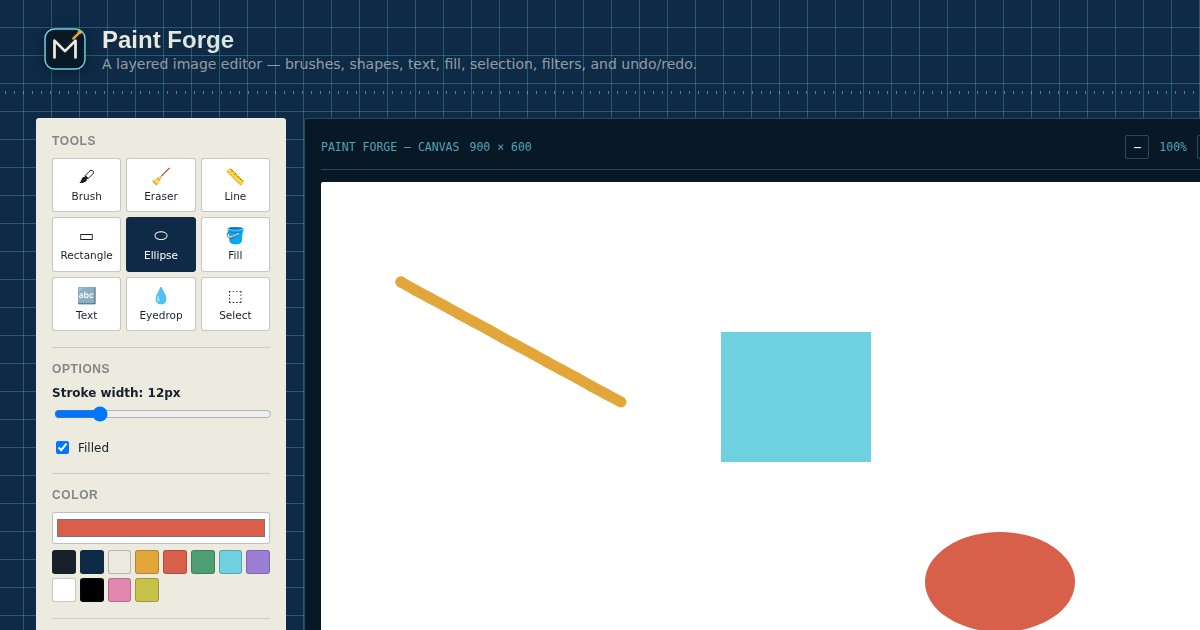
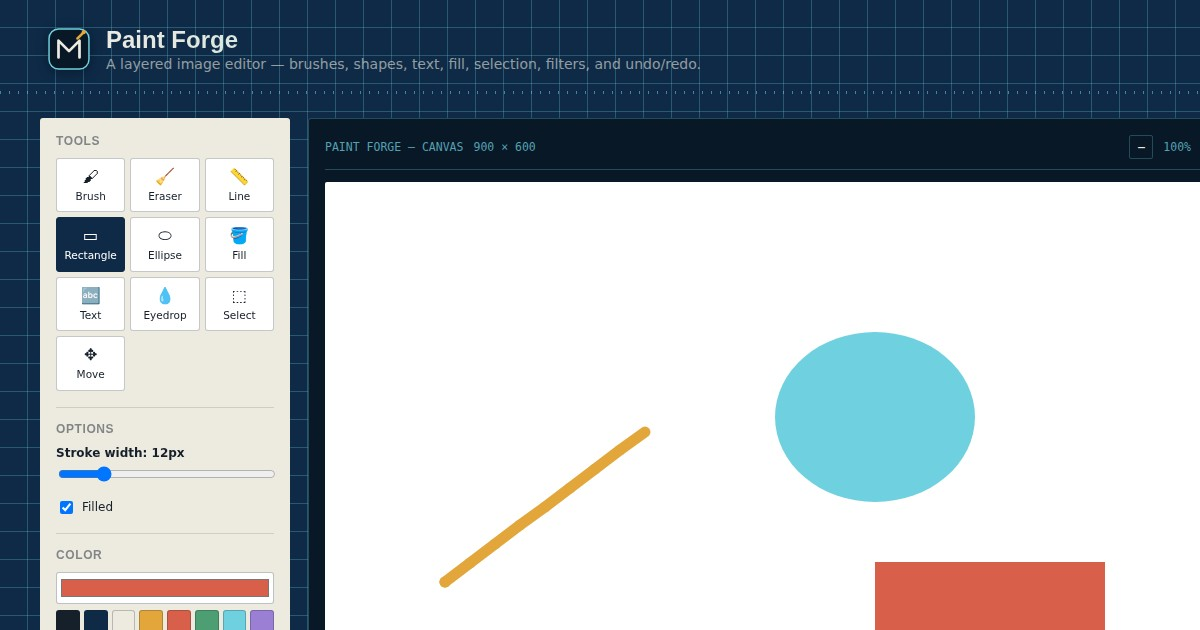
Add a Move tool, keyboard shortcuts, and flip/rotate to Paint Forge
Paint Forge had no way to reposition a layer's content once drawn or
imported (only whole-canvas resize existed), every action required a mouse
click on a small panel button, and there was no flip or rotate anywhere in
a layered editor where both are expected basics.

- Added a Move tool: drag on the canvas to reposition the active layer's
  pixels, snapshotting the layer before the drag so it composes cleanly
  with undo.
- Added keyboard shortcuts: Ctrl+Z / Ctrl+Shift+Z (or Ctrl+Y) for undo/redo,
  [ and ] to shrink/grow the brush size (Shift for bigger steps), and
  Delete/Backspace to clear the current selection when the Select tool has
  an active selection (Backspace is also preventDefault'd generally to stop
  accidental browser back-navigation while using the tool).
- Added a "Transform (active layer)" section with Flip H, Flip V, Rotate
  CW, and Rotate CCW, operating in place on the active layer's pixels
  within the existing canvas frame.

Tested with Playwright by drawing a positioned rectangle and reading actual
pixel data back off the canvas (not just checking that a function ran):
confirmed the Move tool relocates pixels to the exact dragged offset,
confirmed Ctrl+Z reverts the move and Ctrl+Shift+Z reapplies it, confirmed
Flip H mirrors the shape to the exact expected mirrored coordinates,
confirmed ] and [ change the displayed brush size by the right amount, and
confirmed Delete clears an active selection to transparent. Zero console
[…]

diff --git a/paint-forge.html b/paint-forge.html
@@ -227,6 +227,17 @@
       <button type="button" class="draft-btn secondary" id="deleteLayerBtn">✕ Delete</button>
     </div>
 
+    <div class="section-title">Transform (active layer)</div>
+    <div class="btn-row" style="margin-bottom:6px;">
+      <button type="button" class="draft-btn secondary" id="flipHBtn">⇋ Flip H</button>
+      <button type="button" class="draft-btn secondary" id="flipVBtn">⇵ Flip V</button>
+    </div>
+    <div class="btn-row">
+      <button type="button" class="draft-btn secondary" id="rotateCcwBtn">↺ Rotate CCW</button>
+      <button type="button" class="draft-btn secondary" id="rotateCwBtn">↻ Rotate CW</button>
+    </div>
+    <p class="field hint">Affects the active layer's pixels in place — content that no longer fits the frame is cropped.</p>
+
     <div class="section-title">Adjustments (active layer)</div>
     <div class="field">
       <label>Brightness <span id="brightnessVal">0</span></label>
@@ -450,7 +461,8 @@
     { id: 'fill', label: 'Fill', icon: '🪣' },
     { id: 'text', label: 'Text', icon: '🔤' },
     { id: 'eyedropper', label: 'Eyedrop', icon: '💧' },
-    { id: 'select', label: 'Select', icon: '⬚' }
+    { id: 'select', label: 'Select', icon: '⬚' },
+    { id: 'move', label: 'Move', icon: '✥' }
   ];
   const toolGrid = document.getElementById('toolGrid');
   TOOLS.forEach(t => {
@@ -530,6 +542,11 @@
       hint.className = 'hint';
       hint.textContent = 'Click anywhere on the canvas to pick that color.';
       toolOptionsEl.appendChild(hint);
+    } else if (currentTool === 'move') {
+      const hint = document.createElement('p');
+      hint.className = 'hint';
+      hint.textContent = 'Drag on the canvas to reposition the active layer\'s pixels.';
+      toolOptionsEl.appendChild(hint);
     } else if (currentTool === 'select') {
       const hint = document.createElement('p');
       hint.className = 'hint';
@@ -576,6 +593,7 @@
   let isDrawing = false;
   let lastPoint = null;
   let dragStart = null;
+  let moveSnapshot = null;
 
   function softBrushStamp(ctx, x, y, size, color, opacity, hardness) {
     const r = size / 2;
@@ -645,6 +663,15 @@
       overlayDraw = null;
       return;
     }
+    if (currentTool === 'move') {
+      pushHistory();
+      isDrawing = true;
+      dragStart = pos;
+      moveSnapshot = document.createElement('canvas');
+      moveSnapshot.width = canvasWidth; moveSnapshot.height = canvasHeight;
+      moveSnapshot.getContext('2d').drawImage(layer.canvas, 0, 0);
+      return;
+    }
 
     // brush / eraser / line / rect / ellipse
     pushHistory();
@@ -694,6 +721,11 @@
       const x = Math.min(dragStart.x, pos.x), y = Math.min(dragStart.y, pos.y), w = Math.abs(pos.x - dragStart.x), h = Math.abs(pos.y - dragStart.y);
       selection = { x, y, w, h };
       renderComposite();
+    } else if (currentTool === 'move' && moveSnapshot) {
+      const dx = pos.x - dragStart.x, dy = pos.y - dragStart.y;
+      layer.ctx.clearRect(0, 0, canvasWidth, canvasHeight);
+      layer.ctx.drawImage(moveSnapshot, dx, dy);
+      renderComposite();
     }
   });
 
@@ -729,6 +761,9 @@
       renderLayersList();
     } else if (currentTool === 'select') {
       renderComposite();
+    } else if (currentTool === 'move') {
+      moveSnapshot = null;
+      renderLayersList();
     }
     dragStart = null; lastPoint = null;
   });
@@ -899,6 +934,59 @@
     layers.splice(activeLayerIndex, 1);
     activeLayerIndex = activeLayerIndex - 1;
     renderLayersList(); renderComposite();
+  });
+
+  // ================= transform (active layer) =================
+  function transformActiveLayer(type) {
+    const layer = activeLayer();
+    if (!layer) return;
+    pushHistory();
+    const scratch = document.createElement('canvas');
+    scratch.width = canvasWidth; scratch.height = canvasHeight;
+    const sctx = scratch.getContext('2d');
+    sctx.save();
+    if (type === 'flipH') { sctx.translate(canvasWidth, 0); sctx.scale(-1, 1); }
+    else if (type === 'flipV') { sctx.translate(0, canvasHeight); sctx.scale(1, -1); }
+    else if (type === 'rotateCW' || type === 'rotateCCW') {
+      sctx.translate(canvasWidth / 2, canvasHeight / 2);
+      sctx.rotate((type === 'rotateCW' ? 1 : -1) * Math.PI / 2);
+      sctx.translate(-canvasWidth / 2, -canvasHeight / 2);
+    }
+    sctx.drawImage(layer.canvas, 0, 0);
+    sctx.restore();
+    layer.ctx.clearRect(0, 0, canvasWidth, canvasHeight);
+    layer.ctx.drawImage(scratch, 0, 0);
+    renderLayersList(); renderComposite();
+  }
+  document.getElementById('flipHBtn').addEventListener('click', () => transformActiveLayer('flipH'));
+  document.getElementById('flipVBtn').addEventListener('click', () => transformActiveLayer('flipV'));
+  document.getElementById('rotateCwBtn').addEventListener('click', () => transformActiveLayer('rotateCW'));
+  document.getElementById('rotateCcwBtn').addEventListener('click', () => transformActiveLayer('rotateCCW'));
+
+  // ================= keyboard shortcuts =================
+  document.addEventListener('keydown', function (e) {
+    const tag = document.activeElement && document.activeElement.tagName;
+    if (tag === 'INPUT' || tag === 'TEXTAREA' || tag === 'SELECT') return;
+    if ((e.ctrlKey || e.metaKey) && !e.shiftKey && e.key.toLowerCase() === 'z') {
+      e.preventDefault();
+      document.getElementById('undoBtn').click();
+    } else if ((e.ctrlKey || e.metaKey) && (e.key.toLowerCase() === 'y' || (e.shiftKey && e.key.toLowerCase() === 'z'))) {
+      e.preventDefault();
+      document.getElementById('redoBtn').click();
+    } else if (e.key === '[') {
+      brushSize = Math.max(1, brushSize - (e.shiftKey ? 10 : 2));
+      renderToolOptions();
+    } else if (e.key === ']') {
+      brushSize = Math.min(200, brushSize + (e.shiftKey ? 10 : 2));
+      renderToolOptions();
+    } else if (e.key === 'Delete' || e.key === 'Backspace') {
+      if (currentTool === 'select' && selection && selection.w >= 1 && selection.h >= 1) {
+        e.preventDefault();
+        selectionAction('Delete');
+      } else {
+        e.preventDefault();
+      }
+    }
   });
 
   // ================= adjustments/filters =================
